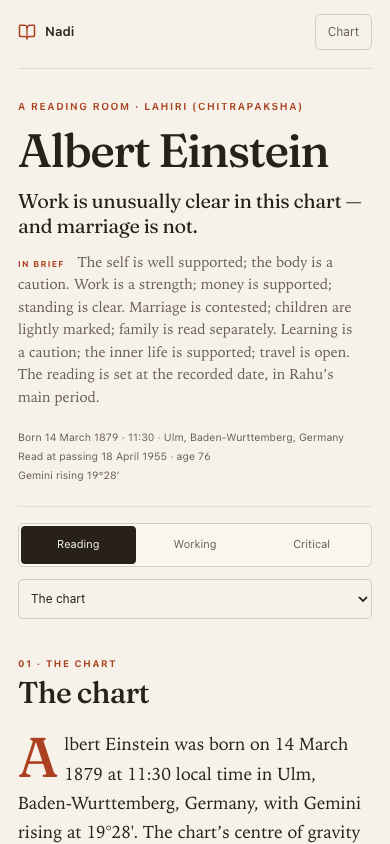
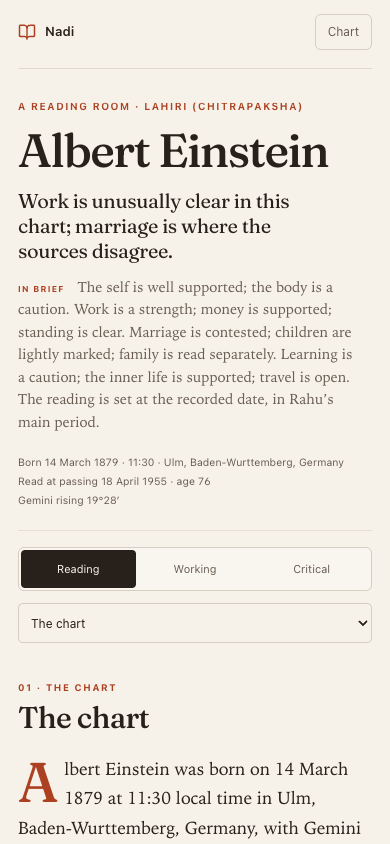
Read contested marriage as an argument, not a verdict

diff --git a/shared/reading-prose.ts b/shared/reading-prose.ts
@@ -21,7 +21,7 @@ import { briefingFor, type Briefing, type BriefRow } from "./briefing";
 import { readerExperience, type ReaderExperience, type ReaderTopic } from "./reader-experience";
 import { PLAIN_TOPIC_LABEL, PLAIN_TOPIC_ORDER, type PlainTopic } from "./topic-brief";
 import type { ParashariFinding, ParashariResult } from "./parashari";
-import { computeVargas, type VargaKey, type VargasResult } from "./vargas";
+import { computeVargas, parashariCombust, type VargaKey, type VargasResult } from "./vargas";
 import { AREA_STRUCTURES } from "./reading-lexicon";
 
 // ── Public shapes ───────────────────────────────────────────────────────────────────────────────
@@ -703,7 +703,7 @@ class Writer {
     if (bridge) sentences.push(bridge);
 
     if (a.tone === "contested") {
-      sentences.push(`The app does not average the two. It keeps support and delay in view, neither cancelling the other. Read together, they describe a ${this.contestedImage(a)}; ${lc(AREA_STRUCTURES.marriage.close)}`);
+      sentences.push(`The app does not average the two. It keeps support and delay in view, neither cancelling the other. Read together, they describe a ${this.contestedImage(a)}; ${lc(AREA_STRUCTURES.marriage.close)} A contested chart is not a prediction of separation: it says the sources disagree, and a long marriage can hold both support and strain.`);
     } else if (a.tone === "care") {
       sentences.push("This is a traditional indication, not a diagnosis. It names where the chart asks for attention, not what will happen.");
     } else if (a.tone === "supportive") {
@@ -791,11 +791,19 @@ class Writer {
     const occupants = this.positions
       .filter((p) => houseFrom(lagna, p.signIndex) === house)
       .sort((a, b) => a.degInSign - b.degInSign);
+    const sun = this.position("Sun");
     const occ = occupants.map((p) => {
-      const dignity = p.dignity === "Exalted" ? " (exalted)" : p.dignity === "Debilitated" ? " (debilitated)" : "";
+      const flags: string[] = [];
+      if (p.dignity === "Exalted") flags.push("exalted");
+      if (p.dignity === "Debilitated") flags.push("debilitated");
+      if (sun && parashariCombust(p, sun.lon)) flags.push("combust");
+      const nb = this.parashari.neechaBhanga?.find((n) => n.planet === p.planet);
+      if (nb?.cancelled) flags.push("Neecha Bhanga");
+      else if (nb?.provisionalOnly) flags.push("Neecha Bhanga (provisional)");
       const retro = p.retrograde ? " R" : "";
       const name = p.planet === "Sun" || p.planet === "Moon" ? `the ${p.planet}` : p.planet;
-      return `${name} ${formatDegree(p.degInSign)}${dignity}${retro}`;
+      const note = flags.length ? ` (${flags.join("; ")})` : "";
+      return `${name} ${formatDegree(p.degInSign)}${note}${retro}`;
     });
     const held = occ.length ? `holds ${list(occ)}` : "has no planet";
     const lordName = lord === "Sun" || lord === "Moon" ? `, the ${lord},` : ` ${lord}`;
@@ -835,6 +843,37 @@ class Writer {
     return `The 5th lord ${l5.lord} is in the ${ORD_WORDS[l5.at]}; the 9th lord ${l9.lord} in the ${ORD_WORDS[l9.at]}; the 12th lord ${l12.lord} in the ${ORD_WORDS[l12.at]}. Learning is ${status("education")}, the inner life is ${status("spirituality")}, travel is ${status("travel")}; the chapter reads all three through the public houses.`;
   }
 
+  private lagnaLordNote(): string {
+    const lord = SIGN_LORD[this.lagna.signIndex];
+    const pos = this.position(lord);
+    if (!pos || pos.dignity !== "Debilitated") return "";
+    const sun = this.position("Sun");
+    const house = houseFrom(this.lagna.signIndex, pos.signIndex);
+    const company = this.positions
+      .filter((p) => p.planet !== lord && p.signIndex === pos.signIndex)
+      .map((p) => (p.planet === "Sun" ? "the Sun" : p.planet === "Moon" ? "the Moon" : p.planet));
+    const flags = ["debilitated"];
+    if (sun && parashariCombust(pos, sun.lon)) flags.push("combust");
+    const nb = this.parashari.neechaBhanga?.find((n) => n.planet === lord);
+    const status = !nb
+      ? "no Neecha Bhanga is calculated"
+      : nb.cancelled
+        ? `Neecha Bhanga applies${nb.verses ? ` (${nb.verses})` : ""}`
+        : nb.provisionalOnly
+          ? "only provisional Neecha Bhanga conditions apply"
+          : "no classical Neecha Bhanga is reported";
+    const strength = this.result.reading.strength.find((s) => s.planet === lord);
+    const note = strength?.dignityNote ?? strength?.notes?.[0];
+    return `${lord}, the lagna lord, is in the ${ORD_WORDS[house]} in ${pos.sign}${company.length ? `, with ${list(company)}` : ""}, ${flags.join(" and ")}; ${status}.${note ? ` ${note}.` : ""}`;
+  }
+
+  private d9SpouseLine(): string {
+    const s = this.vargas.spouse;
+    const names = s.occupants.map((p) => (p === "Sun" ? "the Sun" : p === "Moon" ? "the Moon" : p));
+    const occ = names.length ? `, with ${list(names)}` : "";
+    return `In D9, the 7th is ${SIGNS[s.seventhSign]}, its lord ${s.seventhLord} in ${SIGNS[s.lordSign]} (the ${ORD_WORDS[s.lordHouse]})${occ}; Venus is in ${SIGNS[s.venusSign]} (${s.venusRelation}).`;
+  }
+
   private jaiminiFacts(chapter: "native" | "work" | "bonds" | "mind"): string {
     const karakas = new Map<string, Planet>(this.result.jaimini.karakas.map((k) => [k.karaka, k.planet]));
     const navamsa = new Map(this.result.jaimini.navamsa.map((p) => [p.planet, p.sign]));
@@ -851,7 +890,12 @@ class Writer {
       : chapter === "work" ? ["AmK"]
         : chapter === "bonds" ? ["DK", "PK"]
           : ["AK", "PK"];
-    return labels.map(fact).filter(Boolean).join("; ");
+    const facts = labels.map(fact).filter(Boolean);
+    if (chapter === "bonds") {
+      const ul = this.result.jaimini.arudhas?.find((a) => a.label === "UL");
+      if (ul) facts.push(`UL in ${ul.sign} (the ${ORD_WORDS[houseFrom(this.lagna.signIndex, ul.signIndex)]})`);
+    }
+    return facts.join("; ");
   }
 
   private planetCondition(planet: Planet): string {
@@ -910,9 +954,9 @@ class Writer {
     return tidy([
       opening,
       ...houses[chapter].map((house) => this.houseFacts(house)),
-      ...(chapter === "native" ? [this.planetCondition("Moon"), this.planetCondition("Mars")]
+      ...(chapter === "native" ? [this.lagnaLordNote(), this.planetCondition("Moon"), this.planetCondition("Mars")]
         : chapter === "work" ? [this.planetCondition("Saturn"), this.planetCondition("Mercury")]
-          : chapter === "bonds" ? [this.planetCondition("Venus"), this.planetCondition("Sun")]
+          : chapter === "bonds" ? [this.d9SpouseLine(), this.planetCondition("Venus"), this.planetCondition("Sun")]
             : [this.planetCondition("Mercury"), this.planetCondition("Jupiter")]),
       jaimini ? `Jaimini: ${jaimini}.` : "",
       kp ? `KP: ${kp}` : "",
@@ -975,7 +1019,7 @@ class Writer {
     } else if (a?.tone === "contested" && a.contest) {
       sentences.push(this.evidenceSentence(a.contest.good, 0, "contested"));
       sentences.push(this.evidenceSentence(a.contest.hard, 1, "contested"));
-      sentences.push("The app does not average the two. It keeps support and delay in view, neither cancelling the other. Read together, they describe a partnership with weight and distance in it; the chart is not offering a promise or a denial.");
+      sentences.push(`The app does not average the two. It keeps support and delay in view, neither cancelling the other. Read together, they describe a ${this.contestedImage(a)}; ${lc(AREA_STRUCTURES.marriage.close)} A contested chart is not a prediction of separation: it says the sources disagree, and a long marriage can hold both support and strain.`);
       if (rt?.natal.limit) sentences.push(rt.natal.limit);
     } else if (topic === "health") {
       const details = rt?.natal.details ?? [];
@@ -1084,7 +1128,9 @@ class Writer {
   }
 
   private conditionFindings(): ParashariFinding[] {
+    const lagnaLord = SIGN_LORD[this.lagna.signIndex];
     const rank = (f: ParashariFinding) => {
+      if (/^Neechabhanga/.test(f.title) && f.planets.includes(lagnaLord)) return 11;
       if (/Mahapurusha/.test(f.text)) return 10;
       if (/Kalpadruma/.test(f.title)) return 9;
       if (/^Neechabhanga/.test(f.title)) return 8;
@@ -1539,7 +1585,7 @@ export function composeReading(input: ReadingInput): ReadingDoc {
     .find(Boolean) ?? input.areas[0];
   const contested = input.areas.find((a) => a.tone === "contested");
   const standfirst = contested && strongest
-    ? `${cap(areaTheme(strongest.area))} is unusually clear in this chart — and ${areaTheme(contested.area)} is not.`
+    ? `${cap(areaTheme(strongest.area))} is unusually clear in this chart; ${areaTheme(contested.area)} is where the sources disagree.`
     : strongest
       ? `${cap(areaTheme(strongest.area))} is the chart’s clearest line.`
       : "A chart read in layers.";

diff --git a/scripts/reading-prose.test.ts b/scripts/reading-prose.test.ts
@@ -34,11 +34,16 @@ test("the reading has the agreed chapter shape", () => {
   );
   assert.ok(doc.index.every((e) => e.short), "every area needs a contents-rail label");
   assert.match(doc.standfirst, /^Work is unusually clear/);
+  assert.doesNotMatch(doc.standfirst, /and marriage is not/);
   assert.match(doc.sections[0].paragraphs[0].text, /Gemini rising at 19°28′/);
   assert.match(doc.sections[0].paragraphs[0].text, /Jupiter, the Jeeva, standing alone in Aquarius/);
 
   const bonds = doc.sections.find((s) => s.id === "bonds")!;
+  const native = doc.sections.find((s) => s.id === "native")!;
+  assert.match(native.preamble ?? "", /the lagna lord/);
+  assert.match(bonds.preamble ?? "", /In D9, the 7th/);
   const marriage = bonds.paragraphs.find((p) => p.id === "area-marriage")!;
+  assert.match(marriage.text, /A contested chart is not a prediction of separation/);
   assert.match(marriage.text, /does not average/);
   assert.match(marriage.text, /Venus with the Sun/);
   assert.match(marriage.text, /Venus, Saturn and Ketu/);

diff --git a/docs/reading-room.md b/docs/reading-room.md
@@ -71,6 +71,14 @@ The governing varga is the correction to the first cross-check. The test counts 
 The wealth condition is the clearest argument for the layer: under a generic D10 count it was 1/4; in its own D2 it is 3/4. The chapter prints the governing count, not the flattering one. The period line is current when the running lord is one of the condition's planets; for a recorded death it uses the last period before the reading date, never a future period to imply posthumous activation. That activation test is the **app's own simplification**, not a classical dasha-activation rule. For the Einstein chart the running Rahu period carries none of the six, and the chapter says so. The full rule text is in Why this; the chapter is not the complete yoga ledger.
 
 
+## The lagna lord and the marriage frame
+
+The native preamble now marks every occupant with dignity, Parashari combustion and Neecha Bhanga. If the lagna lord is debilitated, a dedicated sentence gives its house, sign, company, combustion, cancellation status and the Nadi strength note. The condition selection puts the lagna lord's Neecha Bhanga first.
+
+The Bonds preamble now carries **D9**: the seventh from the navamsa lagna, its lord and house, its occupants, Venus and the Upapada. This is the marriage varga. D7 is children and D4 is home; they add granularity there, not to the marriage headline.
+
+The headline no longer says "and marriage is not." It says "X is unusually clear; Y is where the sources disagree." The marriage paragraph says contested is not separation: a long marriage can hold both support and strain. The room still does not predict duration or outcome.
+
 The **chapter preamble** is now the technical frame in the reading: the lagna and relevant houses, their lords and occupants, degrees, dignities and strength, the Jaimini karakas (with D9), and the KP cusp and sub-lord. It assumes the reader knows **lagna, bhava, lord, karaka, D9, dasha, bhukti, pratyantar, bindus and cusp sub-lord**. It does not gloss them. The per-area Parashari frame remains in Working.
 
 **Jaimini** contributes AK/AmK/DK/PK and their D9 signs; **KP** contributes the cusp sub-lord and its verdict — often “no general verdict fires.” ALP is still not mapped, and Prasna Marga is not a natal voice; both stay out of the prose rather than being forced in.
@@ -88,7 +96,7 @@ Each chapter now has three registers:
 2. **The area paragraphs** — the human argument: claim, the area's fixed structure anchor, the reviewed Nadi lines, bridge, limit.
 3. **The coda** — a short closing paragraph, marked with a vermilion square, that states the chapter's pattern across its areas.
 
-The reading is longer because it is no longer a trailer. The Einstein chart runs to roughly 2,350 words and twelve minutes; the preambles carry the facts a practitioner would otherwise look up in the tabs, every area names its configuration in its own fixed form, and the conditions chapter adds the named yogas the tab engine already found.
+The reading is longer because it is no longer a trailer. The Einstein chart runs to roughly 2,450 words and twelve minutes; the preambles carry the facts a practitioner would otherwise look up in the tabs, every area names its configuration in its own fixed form, and the conditions chapter adds the named yogas the tab engine already found.
 
 ## The prose layer
 
@@ -119,7 +127,7 @@ The details that make it read like English rather than a table:
 - **Uncertainty in the grammar.** A contested area is allowed to be an argument; a provisional rule keeps its mark; a calculation's grade is in the working, not hidden in a footnote.
 - **No forecast.** The timing section names the period and the sky and says, in the same breath, that the app does not turn them into an event.
 
-For the Einstein chart the reading is about 2,350 words and twelve minutes, with eleven area paragraphs, four technical preambles, four chapter codas and six condition paragraphs. The lead is:
+For the Einstein chart the reading is about 2,450 words and twelve minutes, with eleven area paragraphs, four technical preambles, four chapter codas and six condition paragraphs. The lead is:
 
 > Albert Einstein was born on 14 March 1879 at 11:30 local time in Ulm, Baden-Wurttemberg, Germany, with Gemini rising at 19°28′. The chart's centre of gravity is Jupiter, the Jeeva, standing alone in Aquarius at 5°19′. Pisces — the tenth sign from the rising — gathers the Sun, Mercury, Saturn, and Venus, which is where the work theme begins. The Moon is in Scorpio, Jyeshtha 2, the sixth house from the rising.
 
@@ -136,6 +144,8 @@ For the Einstein chart the reading is about 2,350 words and twelve minutes, with
 - **Time.** The Vimshottari period, the sub-period, the third-level period, and the slow sky, as a structured timeline, not forty pages of paryanthar prose.
 - **The apparatus.** The sources with citation counts, the caveats, the provenance, the school cards, the evidence legend, and a copyable citation.
 - **The fingerprint.** A local checksum of the birth data and ayanamsa, so the same reading can be recognised. It is explicitly not a cryptographic manifest.
+
+![The Bonds preamble with the D9 seventh and the Upapada](reading-room/bonds.png)
 
 ![The conditions ledger](reading-room/conditions.png)
 
@@ -180,7 +190,7 @@ npx tsx --test scripts/reading-prose.test.ts
 npm run build
 ```
 
-The three prose tests check the chapter shape, the four preambles and codas, the six conditions and their period, D9 and governing-varga fields, all eleven area paragraphs and their frames, the five-line summary and the eleven-area contents, determinism across two compositions, the lexicon lint (no "clearest line", no universal "The line is", small allowances for repeated tone words), unique area claims, and the presence of source, provisional and calculation marks.
+The three prose tests check the chapter shape, the four preambles and codas, the lagna-lord note, the D9 seventh, the marriage sentence that keeps contested from becoming a verdict, the six conditions and their period, D9 and governing-varga fields, all eleven area paragraphs and their frames, the five-line summary and the eleven-area contents, determinism across two compositions, the lexicon lint (no "clearest line", no universal "The line is", small allowances for repeated tone words), unique area claims, and the presence of source, provisional and calculation marks.
 
 A teardown of a mainstream 108-page Parashari report, and what to borrow or avoid, is in [mainstream-reference.md](mainstream-reference.md).
 

diff --git a/README.md b/README.md
@@ -6,7 +6,7 @@ A published snapshot runs at [astroengine.pplx.app](https://astroengine.pplx.app
 
 ## Reading room (design fork)
 
-This branch adds an editorial reading surface at `#/chart/:id/room`, with **Reading / Working / Critical** layers, **four life chapters, a selected conditions chapter, and Time**, every area nested in the contents rail, a run-in **In brief**, a practitioner-register prose layer over the existing readings (technical preambles, chapter codas, fixed rhetorical structures with a tested lexicon, named conditions with D9 and governing-varga tests, plus period activation, about 2,350 words for the Einstein chart), a school-aware chart card, the evidence drawer, a comparison-basis table, a timeline, provenance and citation. The workbench stays available, but the room is the primary entry: a newly cast or saved chart opens the room, the chart header makes **Reading room** primary, and the guided reader links to the full edition.
+This branch adds an editorial reading surface at `#/chart/:id/room`, with **Reading / Working / Critical** layers, **four life chapters, a selected conditions chapter, and Time**, every area nested in the contents rail, a run-in **In brief**, a practitioner-register prose layer over the existing readings (technical preambles, chapter codas, fixed rhetorical structures with a tested lexicon, named conditions with D9 and governing-varga tests, plus period activation, about 2,450 words for the Einstein chart), a school-aware chart card, the evidence drawer, a comparison-basis table, a timeline, provenance and citation. The workbench stays available, but the room is the primary entry: a newly cast or saved chart opens the room, the chart header makes **Reading room** primary, and the guided reader links to the full edition.
 
 The prose layer lives in [`shared/reading-prose.ts`](shared/reading-prose.ts); the page is [`client/src/pages/reading-room.tsx`](client/src/pages/reading-room.tsx); the design notes and screenshots are in [`docs/reading-room.md`](docs/reading-room.md). It adds no astrology and no LLM: it uses the app's reviewed Nadi prose and school chart contexts, and keeps the exact rule text, source and grade one click away.
 
